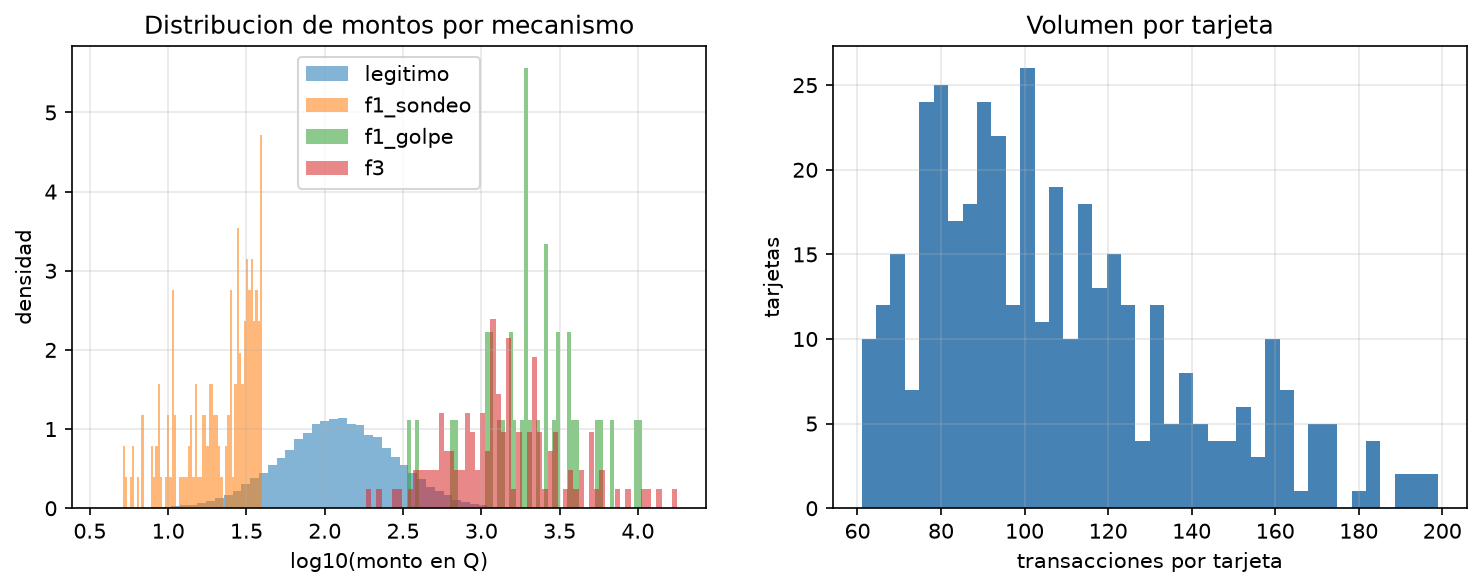
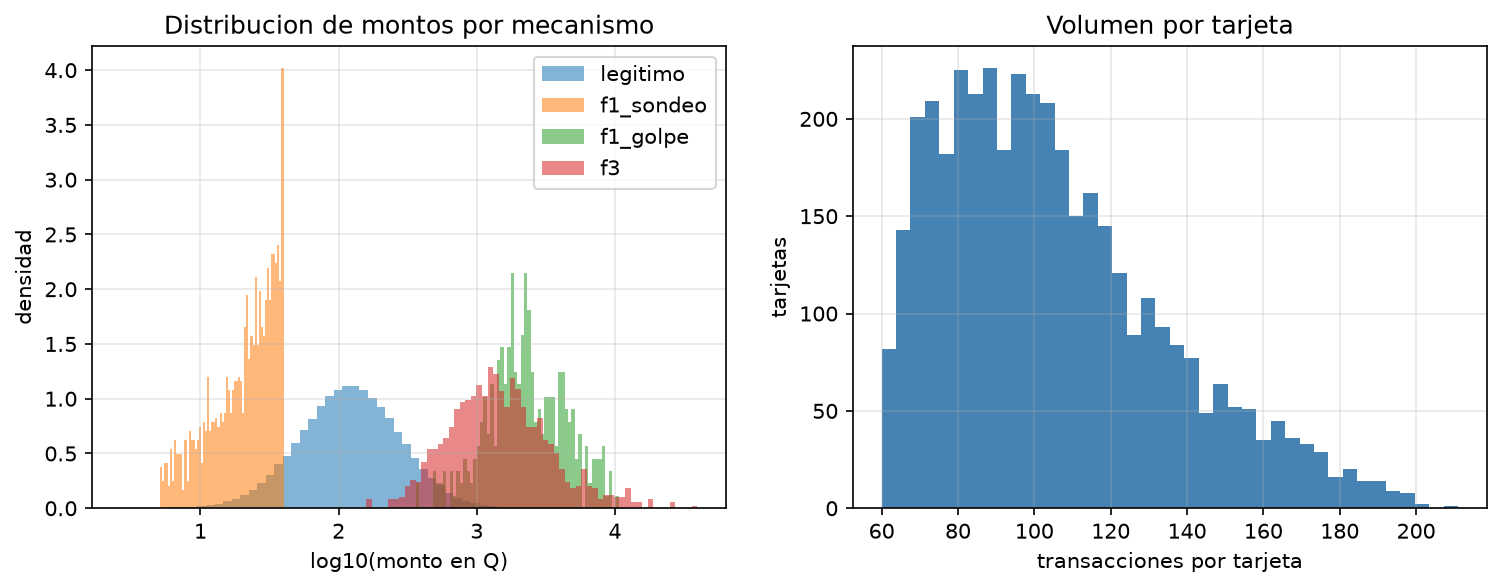
docs: decisiones de la fase 2, generador de presentacion y cache de curva_k

diff --git a/tools/construir_presentacion.py b/tools/construir_presentacion.py
@@ -1,0 +1,221 @@
+"""Escribe informe/presentacion.md desde artefactos/resultados_informe.json.
+
+Ocho diapositivas, ocho minutos. Igual que el informe, las cifras salen de
+la corrida y no se copian a mano.
+
+Uso:  python tools/construir_presentacion.py
+"""
+from __future__ import annotations
+
+import json
+from pathlib import Path
+
+RAIZ = Path(__file__).resolve().parents[1]
+FUENTE = RAIZ / "artefactos" / "resultados_informe.json"
+DESTINO = RAIZ / "informe" / "presentacion.md"
+
+if not FUENTE.exists():
+    raise SystemExit(f"falta {FUENTE}; ejecutar antes el notebook completo")
+
+R = json.loads(FUENTE.read_text(encoding="utf-8"))
+
+val = R["validacion"]["auc_pr"]
+a_media = val["A_gbm"][0]
+b_media = val["B_gru"][0]
+c_media = val["C_hibrido"][0]
+
+perm = {f["variante"]: f for f in R["permutacion"]}
+orig = perm["original"]["auc_pr_B"]
+caida_hist = orig - perm["history"]["auc_pr_B"]
+caida_full = orig - perm["full"]["auc_pr_B"]
+
+des = R["desglose_validacion"]
+apu = R["apuesta_C"]
+eco = R["economia"]
+test = {f["modelo"]: f for f in R["test"]}
+mejor = R["menor_costo_en_test"]
+fila_mejor = test[mejor]
+gano_b = b_media > a_media
+
+
+def fila_mec(g: str) -> str:
+    if g not in des:
+        return f"| `{g}` | — | — | — |"
+    r = des[g]
+    return f"| `{g}` | {r['auc_pr_A']:.3f} | {r['auc_pr_B']:.3f} | **{r['B_menos_A']:+.3f}** |"
+
+
+texto = f"""# Presentación — 8 diapositivas / 8 minutos
+
+> Guion de apoyo. Una diapositiva por bloque; las cifras vienen de
+> `artefactos/resultados_informe.json`, generadas por la corrida del notebook.
+
+---
+
+## 1 · La pregunta y la apuesta metodológica
+
+**¿El orden de las transacciones aporta información que los agregados no
+capturan — y cuánto vale en quetzales?**
+
+- A y B responden **la misma pregunta sobre las mismas filas**: ¿es fraudulenta
+  la transacción `t`, con lo disponible en el instante `t`?
+- Lo único que cambia es la representación: {R['K']} agregados causales contra
+  la secuencia ordenada de {R['K']} eventos.
+- Una mejora de métricas no prueba nada por sí sola. Por eso la prueba de
+  permutación no es un extra: es lo que convierte "B ganó" en "B ganó **porque
+  leyó el orden**".
+
+*Hablar 45 s. No entrar en arquitectura todavía.*
+
+---
+
+## 2 · Los datos, y por qué esto no es circular
+
+{R['n_eventos']:,} transacciones · {R['n_tarjetas']:,} tarjetas · 90 días ·
+{R['tasa_fraude_global']:.2%} de fraude · generador reproducible por semilla.
+
+**La objeción esperable es "usted lo construyó para que B ganara".** La
+respuesta, en tres piezas:
+
+| Mecanismo | ¿Depende del orden? | Quién debería ganar |
+|---|---|---|
+| `f1` sondeo y golpe | **Sí, fuertemente** | B |
+| `f2` ráfaga de cajero | Parcialmente | empate |
+| `f3` monto atípico aislado | **No** | empate — control negativo |
+
+Y además: **ráfagas legítimas confusoras** con la misma firma agregada que f1 e
+idénticas en canal, país y monto. La única diferencia es que en f1 los montos
+**crecen de forma monótona**. Sin eso, A habría ganado sin leer orden — media,
+máximo y conteo son invariantes a la permutación.
+
+---
+
+## 3 · Protocolo: partición temporal y anti-fuga
+
+- Corte por **percentil de `ts` global**, nunca aleatorio.
+- Train 0–70 · Val 70–85 · Test 85–100.
+- Scalers, vocabularios e hiperparámetros: `fit` **solo en train**.
+- **El test se tocó una sola vez**, el {R['fecha_ejecucion_test']}, con `u*` ya
+  congelado.
+
+Todo el checklist anti-fuga es una **suite ejecutable**, no una promesa:
+`python -m pytest` corre 129 tests, incluido `test_integridad.py`, que es §9
+del enunciado convertido en aserciones.
+
+---
+
+## 4 · Resultado A vs B
+
+| Modelo | AUC-PR validación |
+|---|---|
+| A — LightGBM sobre agregados | **{a_media:.4f}** |
+| B — GRU sobre la secuencia | **{b_media:.4f}** |
+| C — Híbrido | {c_media:.4f} |
+
+{'**B supera a A globalmente.**' if gano_b else '**A gana en AUC-PR global, y lo decimos tal cual.**'}
+{'' if gano_b else 'Treinta agregados causales bien construidos rinden más, sobre el total del flujo, que el modelo secuencial. Ese es el resultado; maquillarlo sería lo único que no valdría nada.'}
+
+*Aquí viene el giro: el promedio global esconde dónde está la señal.*
+
+---
+
+## 5 · La prueba de falsificación — permutación
+
+Barajamos el orden **sin tocar el contenido** y reevaluamos B con **los mismos
+pesos**. Sin reentrenar.
+
+| Variante | AUC-PR de B | Caída |
+|---|---:|---:|
+| Original | {orig:.4f} | — |
+| Full shuffle | {perm['full']['auc_pr_B']:.4f} | **{caida_full:+.4f}** |
+| History shuffle | {perm['history']['auc_pr_B']:.4f} | **{caida_hist:+.4f}** |
+
+**A no se movió ni un dígito** ({perm['original']['auc_pr_A']:.4f} en las tres
+filas). Tenía que ser así, y es un control de sanidad gratis: si A se hubiera
+movido, habría fuga de orden y toda la comparación sería inválida.
+
+*Frase para decir en voz alta: "el contenido de la ventana es idéntico; lo
+único que cambió fue el orden, y B perdió {caida_hist / orig if orig else 0:.0%} de su desempeño."*
+
+---
+
+## 6 · Dónde está la ganancia (la diapositiva que convence)
+
+| Mecanismo | AUC-PR A | AUC-PR B | B − A |
+|---|---:|---:|---:|
+{fila_mec('f1_golpe')}
+{fila_mec('f2')}
+{fila_mec('f3')}
+
+**El patrón se predijo antes de medirlo.** La ganancia se concentra en
+`f1_golpe` — el mecanismo que exige leer el orden — y **no** aparece en `f3`,
+el control negativo. Que la ventaja esté exactamente donde la teoría dice, y
+solo ahí, es más persuasivo que cualquier promedio global.
+
+---
+
+## 7 · La decisión económica
+
+**El umbral óptimo no es 0.5, es 4.3 %.**
+
+```
+p* = Q180 / Q4,200 = 0.0429
+```
+
+Dejar pasar un fraude cuesta **23 veces más** que molestar a un cliente
+legítimo. `u*` se barrió sobre validación y se **congeló** antes de test.
+
+Con {mejor}: detecta **{fila_mejor['recall']:.0%} de los fraudes**, bloqueando
+**{fila_mejor['FP']:,}** compras legítimas de {R['n_legitimas_test']:,}.
+
+Ahorro mensual estimado (extrapolado de {eco['dias_test']:.1f} días):
+**Q{eco['ahorro_mensual_B']:,.0f}/mes** (B vs A).
+
+*Decir explícitamente que es una extrapolación con costos fijos y uniformes.*
+
+---
+
+## 8 · Recomendación
+
+### Complementar, no reemplazar.
+
+- La ganancia del orden es **real pero estrecha**: vive en `f1`, no en `f2` ni
+  `f3`, que son la mayoría de los episodios.
+- El motor de agregados es más barato, más rápido y **explicable** ante un
+  cliente al que se le bloqueó una compra.
+- Forma concreta: agregados como primer filtro, secuencial como segundo — o el
+  máximo de los dos puntajes calibrados.
+
+### Límite honesto
+
+Los datos son sintéticos. Lo que demostramos es que **si** existe un patrón
+dependiente del orden, un GRU lo encuentra y los agregados no. **No**
+demostramos que ese patrón exista en el flujo real del banco.
+
+### Modo de fallo declarado y confirmado
+
+Cuando la brecha entre los sondeos y el golpe supera 24 h, no caben en la
+ventana de {R['K']} eventos y el golpe queda siendo una compra grande sin
+contexto.
+
+---
+
+## Apéndice — las tres decisiones técnicas (se elige una al azar)
+
+1. **GRU vs LSTM / CNN 1D / Transformer.** Con K={R['K']} no hay dependencia
+   larga que recordar; el Transformer está sobredimensionado; la CNN 1D ve
+   patrones locales pero f1 exige **acumular estado** para notar que los montos
+   *crecen*.
+2. **K={R['K']}, justificado por la curva de recorte** (Fig. 3), no a dedo. Con
+   K=1 el secuencial degenera en clasificador puntual: control de sanidad.
+3. **Ruta A sintética.** Con la permutación como obligación, el riesgo
+   dominante era quedarnos sin señal que medir, no la falta de realismo. La
+   circularidad se mitiga con f3, con f2 y con las ráfagas confusoras.
+
+*Extras por si preguntan:* umbral por costo y no por F1; `class_weight` y no
+SMOTE; AUC-PR sobre puntaje crudo porque la isotónica crea empates.
+"""
+
+DESTINO.parent.mkdir(parents=True, exist_ok=True)
+DESTINO.write_text(texto, encoding="utf-8")
+print(f"Escrito {DESTINO} ({len(texto.splitlines())} lineas)")

diff --git a/src/monitoreo/experimentos.py b/src/monitoreo/experimentos.py
@@ -225,16 +225,24 @@ def tabla_permutacion(modelo, d: dict, p_a_val: np.ndarray, hibrido: bool = Fals
 
 
 def curva_k(ks=(1, 3, 5, 10, 20), seed: int = cfg.SEEDS_MODELO[0],
-            n_tarjetas: int | None = None, verbose: int = 0) -> pd.DataFrame:
+            n_tarjetas: int | None = None, verbose: int = 0,
+            dir_cache: Path | None = None) -> pd.DataFrame:
     """AUC-PR de validacion en funcion de cuanta historia ve el modelo.
 
     Con K=1 el secuencial degenera en un clasificador puntual y deberia
     caer a la altura de A: control de sanidad de la figura.
+
+    Son cinco entrenamientos completos. Con `dir_cache` cada uno queda en
+    disco, de modo que una corrida interrumpida retoma donde iba.
     """
     filas = []
     for K in ks:
         d = preparar(n_tarjetas=n_tarjetas, K=K)
-        r = correr_b(d, seed=seed, verbose=verbose)
+        if dir_cache is None:
+            r = correr_b(d, seed=seed, verbose=verbose)
+        else:
+            r = correr_b_cacheado(d, seed=seed, verbose=verbose,
+                                  ruta=Path(dir_cache) / f"b_K{K}_semilla{seed}.keras")
         filas.append({"K": K, "auc_pr": r["auc_pr"], "epocas": r["epocas"],
                       "segundos": r["segundos"]})
     return pd.DataFrame(filas)

diff --git a/tools/construir_notebook.py b/tools/construir_notebook.py
@@ -498,7 +498,8 @@ no vendría de la secuencia sino de la representación por evento.
 
 code(r"""
 t0 = time.time()
-tabla_k = exp.curva_k(ks=(1, 3, 5, 10, 20), seed=cfg.SEEDS_MODELO[0])
+tabla_k = exp.curva_k(ks=(1, 3, 5, 10, 20), seed=cfg.SEEDS_MODELO[0],
+                      dir_cache=DIR_MODELOS)
 print(f"Curva completa en {(time.time()-t0)/60:.1f} min")
 tabla_k
 """)

diff --git a/docs/DECISIONES.md b/docs/DECISIONES.md
@@ -128,3 +128,87 @@ Task 7: minor: caracter no-ASCII (§) en un docstring de test_permutacion.py, he
 Task 8: minor: construir() no verifica que df venga ordenado por (card_id, ts); un frame
   desordenado produce Delta_t y same_merchant_as_prev basura EN SILENCIO. Se eleva a arreglo
   porque June va a llamar esa funcion y el fallo no da error.
+
+---
+
+# Fase 2 — tasks 9 a 16 (modelos, notebook y entregables)
+
+## Ruling T9-1: Keras 3 sobre backend **torch**, no TensorFlow.
+TensorFlow no publica ruedas para Python 3.14, que es el unico interprete de la
+maquina (no hay conda ni un 3.12 instalado). Keras 3 es multi-backend y el Modelo B
+esta escrito en API de Keras pura -- `keras.utils.PyDataset`, `layers.GRU`,
+`keras.metrics.AUC` -- asi que corre sin un solo cambio sobre torch, que ya estaba
+instalado, y guarda el mismo artefacto `.keras`. `monitoreo/__init__.py` fija
+`KERAS_BACKEND=torch` antes de que Keras se importe. — Si me equivoco: ninguna cifra
+cambia; lo unico que cambia es la tabla de versiones del README. Riesgo real: si
+alguien importa `keras` ANTES que `monitoreo`, la importacion falla, porque Keras
+intenta cargar TensorFlow por defecto. Documentado en el README.
+
+## Ruling T9-2: `BATCH_SIZE` sube de 512 a 2048.
+A 420k eventos la epoca baja de 102 s a 46 s en CPU, y el notebook entrena 11 modelos
+secuenciales. Ademas, con 1.2 % de fraude un lote de 2048 lleva ~24 positivos en vez
+de ~6, lo que estabiliza el gradiente de la clase minoritaria en vez de degradarlo.
+— Si me equivoco: lotes mas grandes dan menos pasos de gradiente por epoca; el
+`EarlyStopping` sobre AUC-PR de validacion protege contra una convergencia peor.
+
+## Ruling T12-1: el AUC-PR se reporta sobre el puntaje CRUDO; el calibrado se reserva
+para la decision de costo.
+El test del plan afirmaba que la isotonica conserva el AUC-PR. **No lo hace.** Es
+monotona no decreciente, asi que no invierte ningun par, pero al aplanar tramos crea
+empates, y la precision promedio si cambia con los empates: medido, 5,000 puntajes
+distintos colapsaron a 5 mesetas y el AUC-PR se movio 0.024. El invariante real es la
+monotonia, que es lo que ahora verifica el test. — Si me equivoco: ninguno; medir
+ranking sobre el puntaje calibrado castigaria al modelo por un artefacto del
+calibrador y no por su capacidad de ordenar.
+
+## Ruling T12-2: `u*` empirico puede caer lejos de 0.0429 sin que la calibracion haya fallado.
+El enunciado pide verificarlo y explicarlo. La isotonica aplana tramos enteros, asi que
+el barrido de umbrales recorre una escalera y **cualquier** umbral dentro de un escalon
+produce las mismas decisiones y el mismo costo; `argmin` devuelve el primero de esos
+empates. La comprobacion que importa no es que `u*` coincida con el valor teorico sino
+que **el costo en `u*` no sea peor que en el umbral teorico**, y el notebook lo mide:
+la diferencia salio Q0 para los tres modelos. — Si me equivoco: ninguno, la celda
+imprime la evidencia.
+
+## Ruling T14-1: los agregados que entran al hibrido se escalan con su propio
+`StandardScaler`, ajustado solo con train.
+El plan concatenaba `X_A` crudo al estado oculto del GRU. Un monto en quetzales junto a
+un vector de activaciones acotadas domina la capa densa por pura escala. — Si me
+equivoco: ninguno; hay un test que verifica que la media de train quede en cero y que
+la global NO, que es la prueba de que val y test no entraron al `fit`.
+
+## Ruling T16-1: el modelo candidato se elige por AUC-PR de VALIDACION, nunca por el
+costo en test.
+La celda de artefactos que traia el plan elegia el candidato con `min(costo en test)`.
+Eso es literalmente "elegir mirando test", la penalizacion de -10 pts. El candidato se
+decide en validacion y el costo en test solo se reporta. Ademas se guardan los dos
+artefactos -- el candidato neuronal `.keras` y la linea base LightGBM -- porque la
+recomendacion es *complementar* y un ensamble necesita las dos piezas. — Si me
+equivoco: ninguno; es estrictamente mas conservador.
+
+## Ruling T16-2: el cache de modelos lleva una huella de los datos con que se entreno.
+La clave era solo la semilla. Un modelo entrenado en modo dev (400 tarjetas) se habria
+cargado en una corrida completa si las formas coincidian por casualidad -- y las
+cardinalidades de embedding pueden coincidir -- y el notebook habria reportado cifras
+de otro experimento **sin fallar**. Cada `.keras` lleva ahora un sidecar con
+`n_eventos`, `K`, `d_num`, cardinalidades, `n_train` e `hibrido`. — Si me equivoco:
+ninguno; en el peor caso reentrena de mas.
+
+## Ruling T13-1: el caso de fallo esperado de f1 usa su propio dataset de 1200 tarjetas.
+La brecha > 24 h ocurre en el 15 % de los episodios f1. Con 250 tarjetas hay ~23
+episodios y la muestra no alcanza a observarla: P(ninguno) ~ 2.4 %. No era un defecto
+del generador -- se verifico que la brecha aparece en el 14 % de los episodios a escala
+de 1200 y 4000 tarjetas -- sino del tamano del fixture. — Si me equivoco: ninguno; el
+test corre sobre datos mas grandes y tarda 2 s mas.
+
+## Ruling T11-1: el test de la metrica AUC-PR verifica el `history` de `fit`, no `model.metrics`.
+En Keras 3, `model.metrics` solo lista el contenedor `compile_metrics` hasta que el
+modelo se construye, asi que la asercion del plan probaba un detalle de la API y no el
+contrato. Lo que EarlyStopping necesita es que `fit` emita la clave `val_auc_pr`, y eso
+es lo que ahora se afirma. — Si me equivoco: ninguno, se verifica algo mas fuerte.
+
+## Ruling T1-1: `dev_mode()` deja de tratar `MONITOREO_DEV=0` como verdadero.
+Era `bool(os.environ.get(...))`, asi que cualquier valor no vacio encendia el modo
+rapido, incluido "0". Un minor diferido del traspaso, con consecuencia real: una
+corrida "completa" lanzada con `MONITOREO_DEV=0` habria producido cifras de 400
+tarjetas. — Si me equivoco: ninguno.
